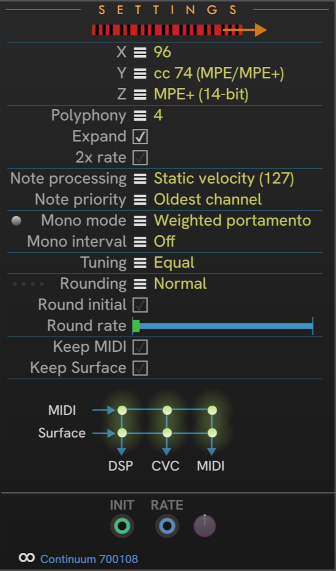
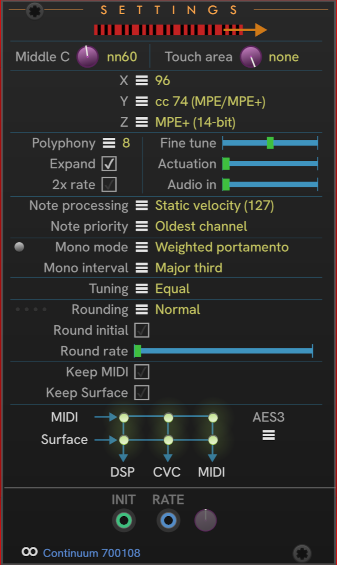
Settings doc

diff --git a/doc/settings.md b/doc/settings.md
@@ -6,6 +6,10 @@ Use **Settings** to control Eagan Matrix settings not available in the other CHE
 
 Click the **fingerboard** to reverse the direction of the playing surface.
 
+For **Middle C**, Turn the knob or right click to enter the MIDI note number (nn) that has the frequency of Middle C. In other words, transpose the surface.
+
+**Touch Area** is the MIDI Note number for the center of the touch area, from 16 to 108. A number <= 16 means there is no touch area. Turn the knob or right click to enter the MIDI note number.
+
 Next select the **X** (bend range), and the **Y** (front-back) and **Z** (pressure) MIDI cc assiignments. The last section for **X** is a combination with MPE (96) for MPE channels 2+, and a selected range on Channel 1.
 
 **Note processing** lets you determine how notes are processed, including the MIDI *Note On* velocity:
@@ -43,7 +47,11 @@ The **Keep MIDI** check box is the equivalent of *Preserve MIDI* in the Haken Ed
 
 The **Keep Surface** check box is the equivalent of *Preserve Surface* in the Haken Editor.
 
-The equivalent to the HE *Preserve Pedals* setting is on the [**Jack** module](./jack.md).
+The equivalent to the Haken Editor's *Preserve Pedals* setting is on the [**Jack** module](./jack.md).
+
+The **MIDI routing** diagram is above the inputs sections. Click a light to disable/enable routing from the input on the left (*MIDI* or **Surface*) to the output on the bottom (*DSP*, *CVC*, and *MIDI*).
+
+The AES menu provides access to AES audio input settings, when available for a device.
 
 ## Inputs
 
